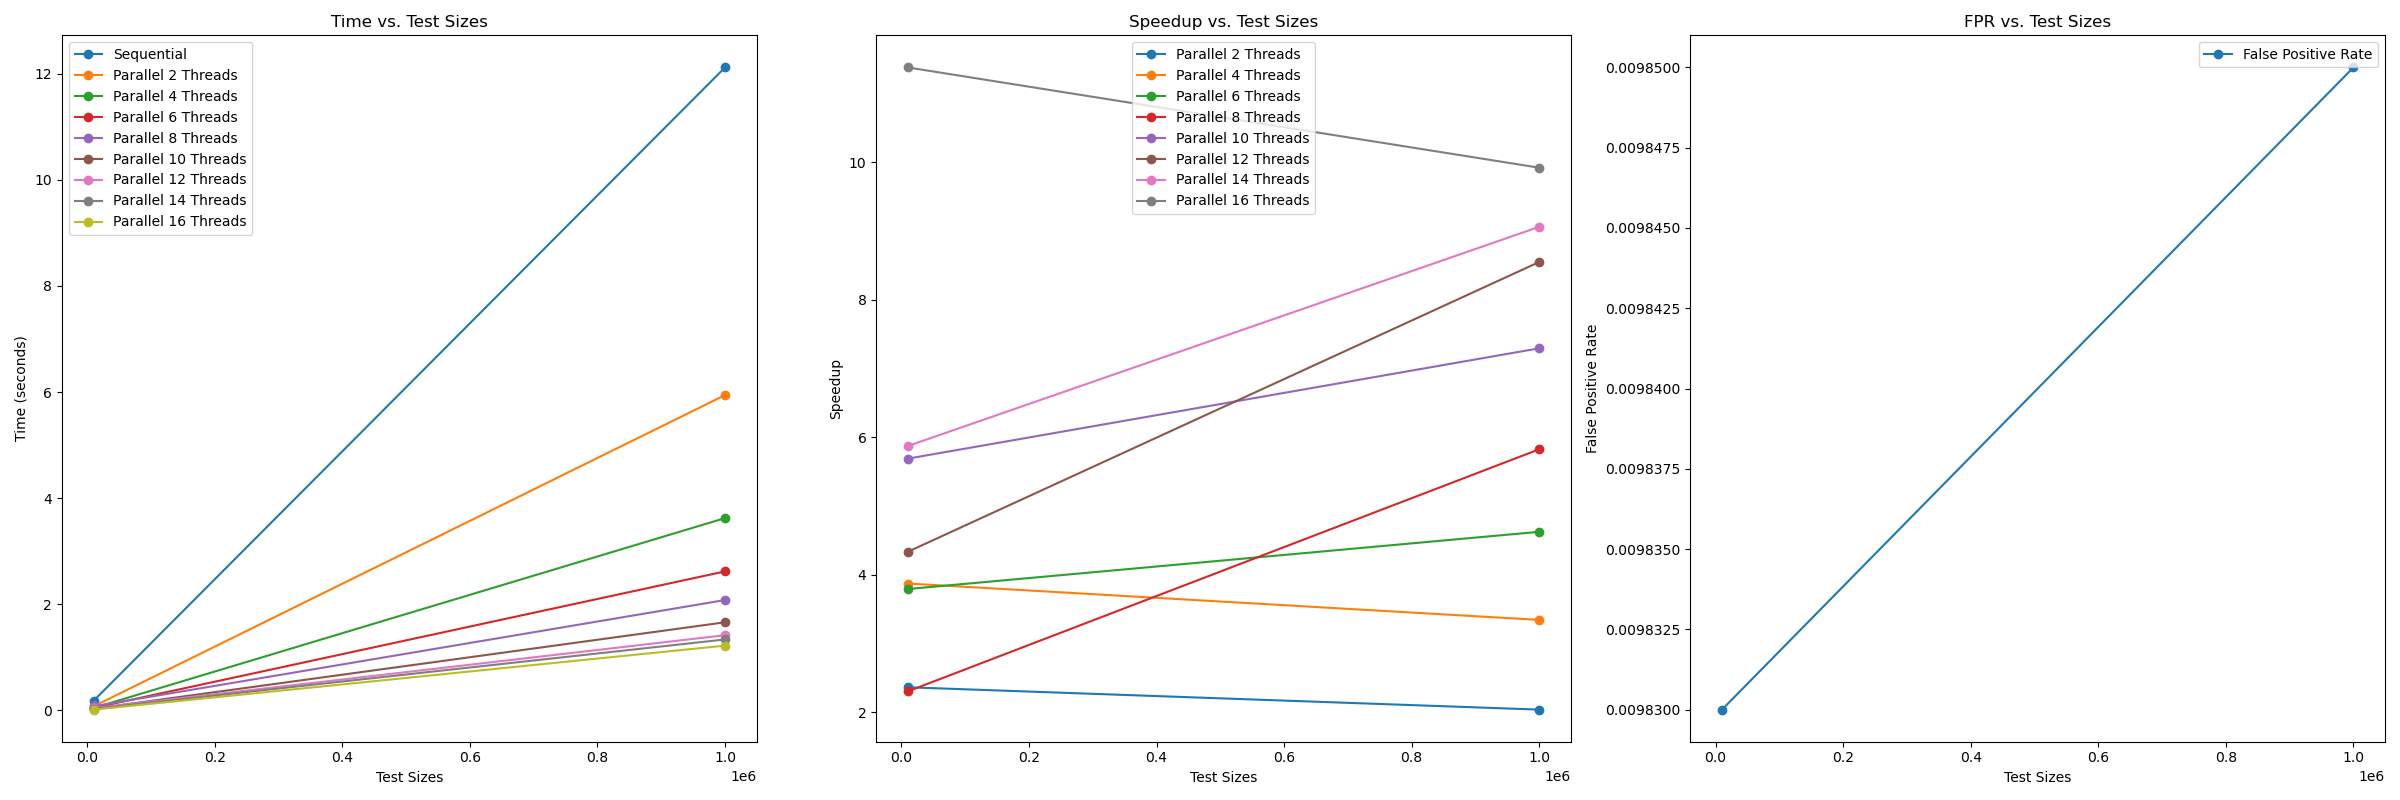
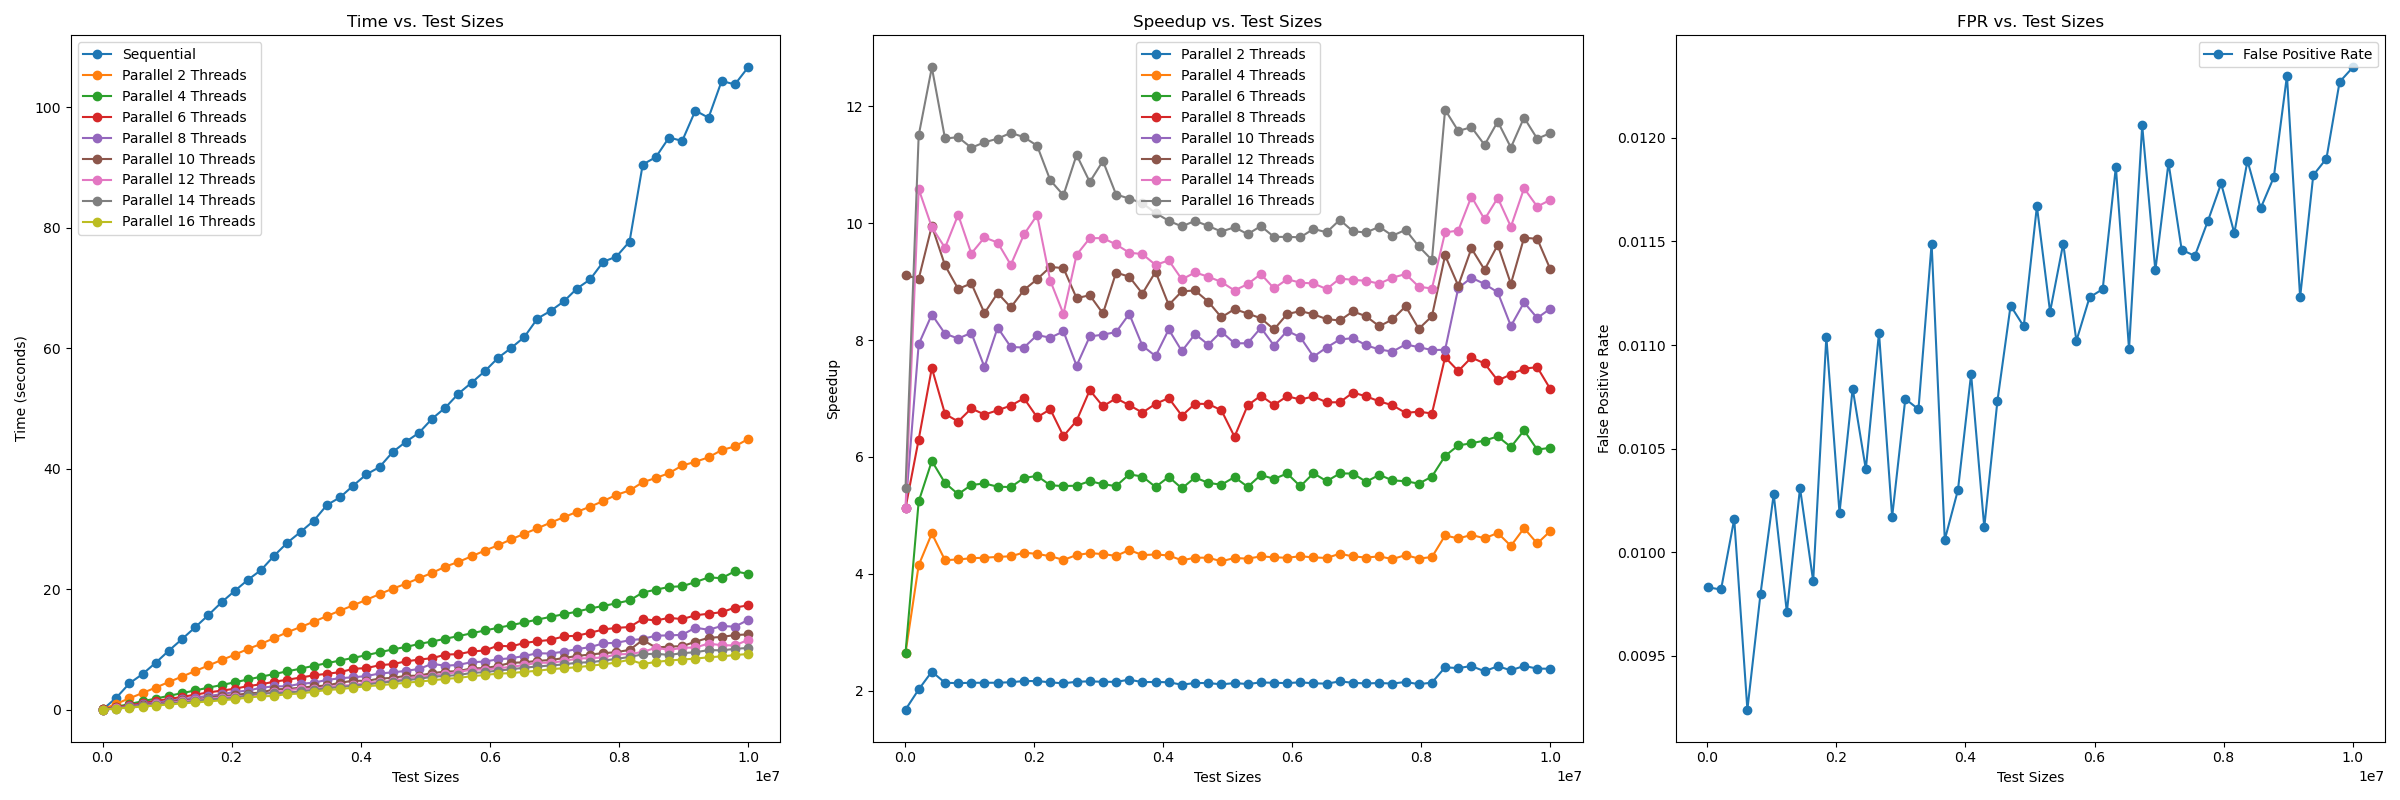
rework finished omp bloomfilter

diff --git a/results/generateplot.py b/results/generateplot.py
@@ -48,43 +48,6 @@ def plot_csv_data(csv_filename):
     plt.show()
 
 
-"""def plot_results(results):
-    print(results)
-    plt.figure(figsize=(24, 8))
-
-    # Plot times
-    plt.subplot(1, 3, 1)
-    plt.plot(results[test_key], results[time_seq_key], marker='o', label='Sequential')
-    for i in test_threads:
-        plt.plot(results[test_key], results[time_par_key+str(i)], marker='o', label=f'Parallel {i} Threads')
-    plt.xlabel('Test Sizes')
-    plt.ylabel('Time (seconds)')
-    plt.title('Time vs. Test Sizes)')
-    plt.legend()
-
-    # Plot speedup
-    plt.subplot(1, 3, 2)
-    for i in test_threads:
-        plt.plot(results[test_key], results[speedup_key+str(i)], marker='o', label=f'Parallel {i} Threads')
-    plt.xlabel('Test Sizes')
-    plt.ylabel('Speedup')
-    plt.title('Speedup vs. Test Sizes')
-    plt.legend()
-
-    # Plot false positive rate
-    plt.subplot(1, 3, 3)
-    plt.plot(results[test_key], results[fpr_key], marker='o', label='False Positive Rate')
-    plt.xlabel('Test Sizes')
-    plt.ylabel('False Positive Rate')
-    plt.title('FPR vs. Test Sizes')
-    plt.legend()
-    
-    plt.tight_layout()
-    plt.savefig(plot_filename)
-    plt.show()
-"""
-
-
 def main():
     plot_csv_data(results_filename)
 

diff --git a/test.h b/test.h
@@ -6,9 +6,9 @@
 #define RESULTS_FILENAME "../results/results.csv"
 
 // TESTS PARAMETERS
-#define N_TESTS 4
+#define N_TESTS 50
 #define START_TEST 10000
-#define END_TEST 1000000
+#define END_TEST 10000000
 
 // BLOOM FILTER FILTER PARAMETERS
 #define FPR 0.01
